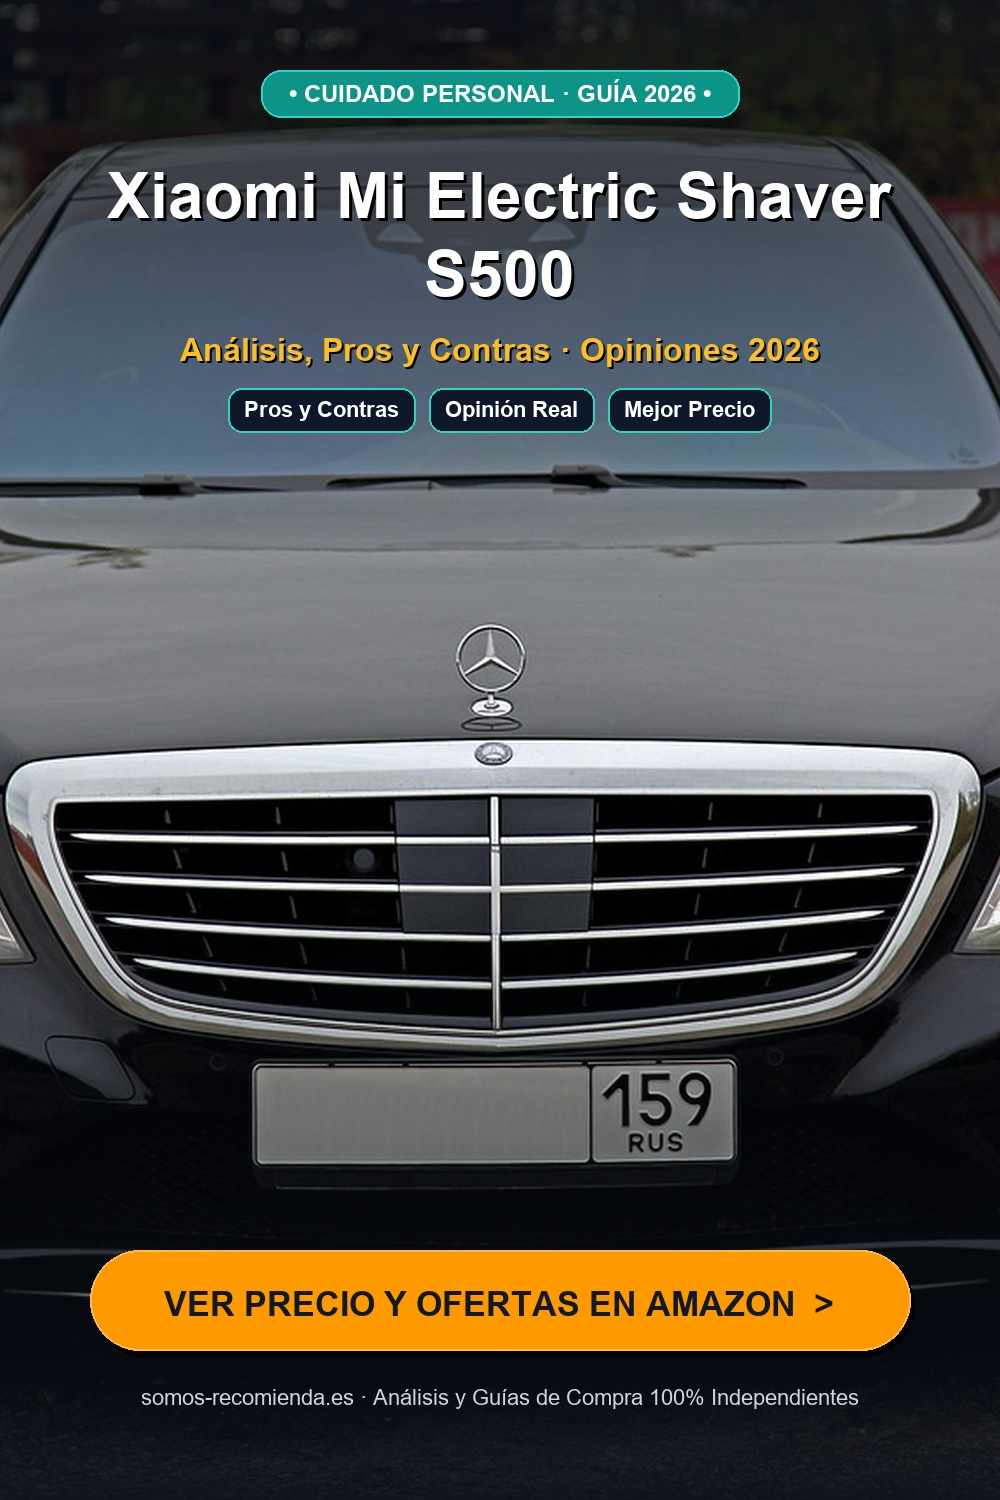
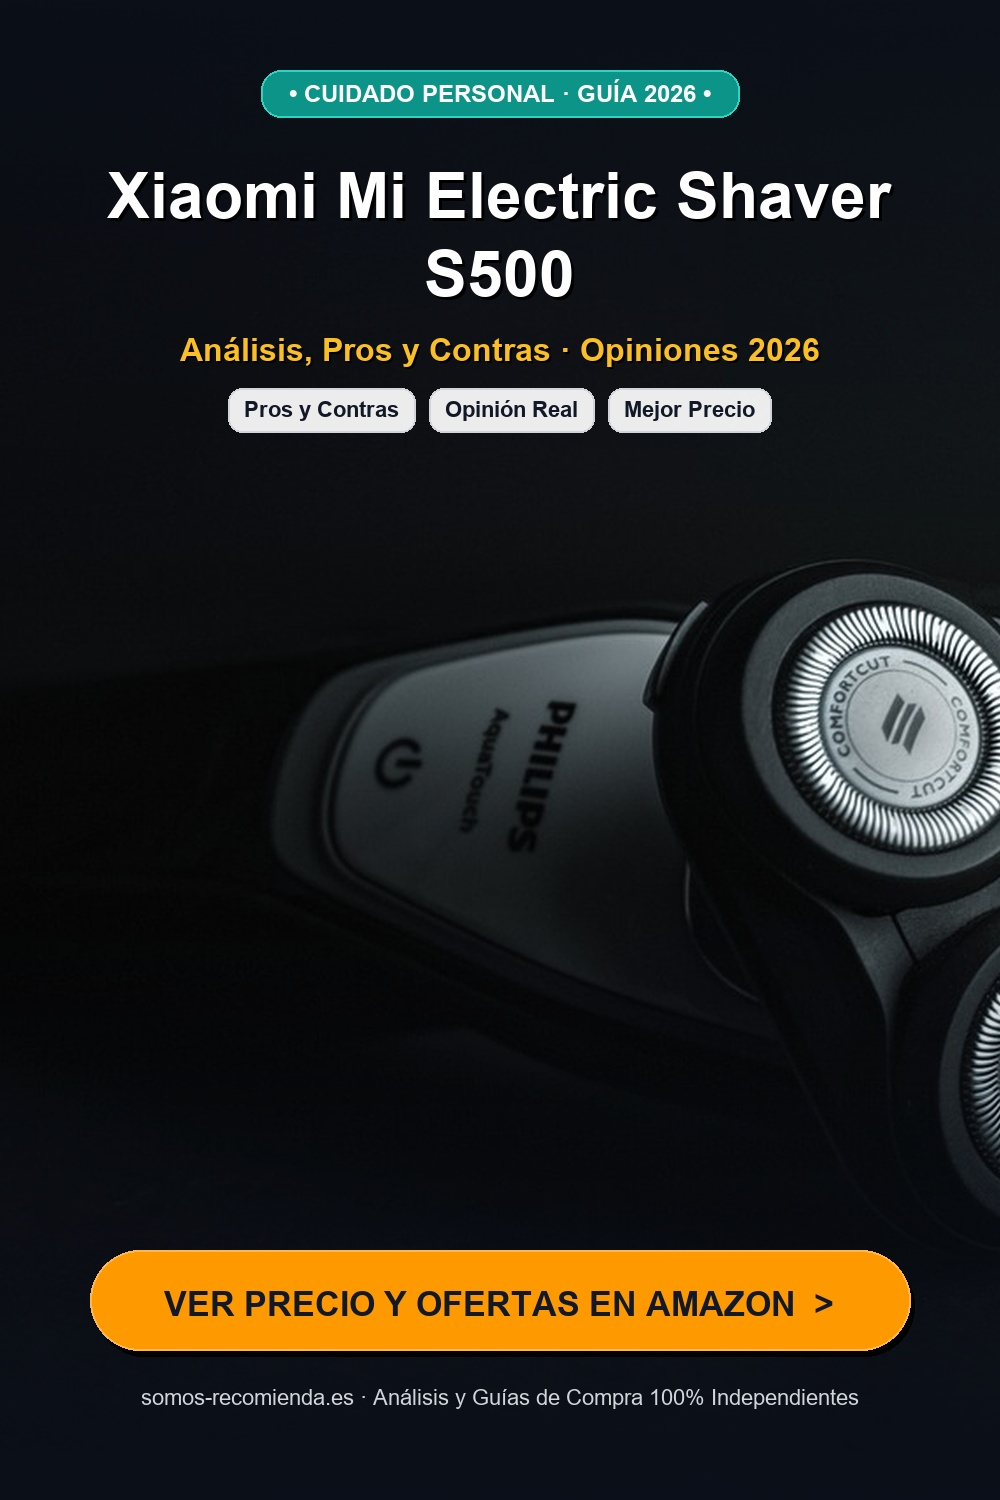
fix(pinterest): sincronizar heroImage exacta de articulos y alto contraste en etiquetas

diff --git a/generador_pinterest.py b/generador_pinterest.py
@@ -31,13 +31,19 @@ DEFAULT_CSV = "keywords_productos.csv"
 
 MAPA_FALLBACK_IMAGENES = {
     "hogar y cocina": "public/images/fallbacks/hogar-y-cocina-default.jpg",
+    "hogar-y-cocina": "public/images/fallbacks/hogar-y-cocina-default.jpg",
     "informatica": "public/images/fallbacks/informatica-default.jpg",
     "productos para mascotas": "public/images/fallbacks/productos-para-mascotas-default.jpg",
+    "productos-para-mascotas": "public/images/fallbacks/productos-para-mascotas-default.jpg",
     "deportes y aire libre": "public/images/fallbacks/deportes-default.jpg",
+    "deportes-y-aire-libre": "public/images/fallbacks/deportes-default.jpg",
     "bricolaje y herramientas": "public/images/fallbacks/bricolaje-y-herramientas-default.jpg",
+    "bricolaje-y-herramientas": "public/images/fallbacks/bricolaje-y-herramientas-default.jpg",
     "electronica": "public/images/fallbacks/electronica-default.jpg",
     "salud y cuidado personal": "public/images/fallbacks/salud-default.jpg",
+    "salud-y-cuidado-personal": "public/images/fallbacks/salud-default.jpg",
     "cuidado personal": "public/images/fallbacks/salud-default.jpg",
+    "cuidado-personal": "public/images/fallbacks/salud-default.jpg",
     "general": "public/images/fallbacks/consejos-default.jpg",
 }
 
@@ -146,36 +152,68 @@ def crear_gradiente_contraste(width: int, height: int) -> Image.Image:
 
 
 def resolver_imagen_origen(keyword: str, categoria: str, ruta_especifica: Optional[str] = None) -> Optional[str]:
-    """Localiza la mejor imagen existente en el proyecto para el producto."""
+    """
+    Localiza con precisión absoluta la imagen exacta del producto usada en su artículo.
+    1. Si se pasa ruta específica válida, la utiliza.
+    2. Lee el artículo correspondiente en src/content/blog/ y extrae la ruta del campo 'heroImage'.
+    3. Si no localiza el artículo, comprueba coincidencias directas en public/img por slug.
+    4. Si falla, usa la imagen fallback oficial de la categoría.
+    """
     if ruta_especifica and os.path.exists(ruta_especifica):
         return ruta_especifica
 
-    slug_2026 = slugify(f"mejor-{keyword}-2026")
-    slug_simple = slugify(keyword)
+    slug_producto = slugify(keyword)
+    anio_actual = 2026
 
-    candidatas = [
-        os.path.join("public", "img", f"{slug_2026}.jpg"),
-        os.path.join("public", "img", f"{slug_simple}.jpg"),
+    # 1. Buscar en los artículos de src/content/blog/ para sincronizar 100% con heroImage
+    blog_dir = os.path.join("src", "content", "blog")
+    if os.path.exists(blog_dir):
+        archivos_blog = [
+            os.path.join(blog_dir, f)
+            for f in os.listdir(blog_dir)
+            if f.endswith((".md", ".mdx")) and not f.startswith(".")
+        ]
+        # Ordenar por fecha de modificación (los más recientes primero)
+        archivos_blog.sort(key=os.path.getmtime, reverse=True)
+
+        for ruta_post in archivos_blog:
+            try:
+                with open(ruta_post, "r", encoding="utf-8") as fp:
+                    contenido = fp.read(2000)
+                    
+                    coincide = False
+                    if f'keyword: "{keyword}"' in contenido or f"keyword: '{keyword}'" in contenido:
+                        coincide = True
+                    elif slug_producto in ruta_post.lower():
+                        coincide = True
+                    
+                    if coincide:
+                        m = re.search(r'heroImage:\s*["\']([^"\']+)["\']', contenido)
+                        if m:
+                            hero_val = m.group(1).strip()
+                            ruta_local = os.path.join("public", hero_val.lstrip("/\\"))
+                            if os.path.exists(ruta_local):
+                                print(f"    [Pinterest Imagen] Coincidencia exacta con artículo '{os.path.basename(ruta_post)}': {ruta_local}")
+                                return ruta_local
+            except Exception:
+                pass
+
+    # 2. Candidatas directas por nombre de archivo en public/img
+    candidatas_directas = [
+        os.path.join("public", "img", f"mejor-{slug_producto}-{anio_actual}.jpg"),
+        os.path.join("public", "img", f"{slug_producto}.jpg"),
+        os.path.join("public", "img", f"mejor-{slug_producto}.jpg"),
     ]
-
-    for c in candidatas:
+    for c in candidatas_directas:
         if os.path.exists(c):
+            print(f"    [Pinterest Imagen] Archivo directo encontrado: {c}")
             return c
 
-    # Búsqueda parcial en public/img
-    public_img = os.path.join("public", "img")
-    if os.path.exists(public_img):
-        for fname in os.listdir(public_img):
-            if fname.lower().endswith((".jpg", ".png", ".jpeg", ".webp")):
-                base_name = os.path.splitext(fname)[0].lower()
-                partes = [p for p in slug_simple.split("-") if len(p) > 3]
-                if any(p in base_name for p in partes[:2]):
-                    return os.path.join(public_img, fname)
-
-    # Fallbacks de categoría
-    cat_norm = normalizar_para_comparar(categoria)
-    fallback = MAPA_FALLBACK_IMAGENES.get(cat_norm, MAPA_FALLBACK_IMAGENES["general"])
+    # 3. Fallbacks de categoría (sin búsqueda parcial difusa que traiga imágenes erróneas)
+    cat_norm = normalizar_para_comparar(categoria).replace("-", " ")
+    fallback = MAPA_FALLBACK_IMAGENES.get(cat_norm, MAPA_FALLBACK_IMAGENES.get(categoria.lower(), MAPA_FALLBACK_IMAGENES["general"]))
     if os.path.exists(fallback):
+        print(f"    [Pinterest Imagen] Usando fallback de categoría: {fallback}")
         return fallback
 
     return None
@@ -202,11 +240,26 @@ def recortar_y_centrar(img: Image.Image, target_w: int = PIN_WIDTH, target_h: in
         return resized.crop((0, top, target_w, top + target_h))
 
 
+def calcular_color_texto_contraste(color_fondo_rgba: Tuple[int, ...]) -> Tuple[Tuple[int, int, int], Tuple[int, int, int]]:
+    """
+    Garantiza alto contraste entre el texto y el fondo de las etiquetas.
+    - Si el fondo es blanco o claro (luminancia > 140): texto gris oscuro/negro casi puro (17, 24, 39) y borde gris claro (209, 213, 219).
+    - Si el fondo es oscuro (luminancia <= 140): texto blanco puro (255, 255, 255) y borde turquesa (45, 212, 191).
+    """
+    r, g, b = color_fondo_rgba[:3]
+    luminancia = 0.299 * r + 0.587 * g + 0.114 * b
+    if luminancia > 140:
+        return (17, 24, 39), (209, 213, 219)
+    else:
+        return (255, 255, 255), (45, 212, 191)
+
+
 def crear_pin(
     keyword: str,
     categoria: str,
     ruta_imagen: Optional[str] = None,
     ruta_salida: Optional[str] = None,
+    estilo_pildoras: str = "blanco",
 ) -> str:
     """
     Crea un Pin de Pinterest de alta conversión (1000x1500) para un producto.
@@ -284,7 +337,7 @@ def crear_pin(
     draw.text((x_s + 2, y_cursor + 18), sub_text, font=font_sub, fill=(0, 0, 0, 200))
     draw.text((x_s, y_cursor + 16), sub_text, font=font_sub, fill=(251, 191, 36, 255))  # Dorado / Ámbar
 
-    # 6. Píldoras de Valor Centrales
+    # 6. Píldoras de Valor Centrales (Alto Contraste Garantizado)
     font_pills = obtener_fuente(22, bold=True)
     pills = ["Pros y Contras", "Opinión Real", "Mejor Precio"]
     pill_y = y_cursor + 72
@@ -301,17 +354,39 @@ def crear_pin(
     total_w_with_gaps = total_pills_w + (len(pills) - 1) * gap
     start_x = (PIN_WIDTH - total_w_with_gaps) // 2
 
+    # Configuración de fondo según estilo ('blanco' o 'oscuro')
+    if estilo_pildoras.lower() in ("blanco", "white", "claro", "light"):
+        fill_pills = (255, 255, 255, 235)  # Fondo blanco translúcido
+    else:
+        fill_pills = (15, 23, 42, 225)  # Fondo oscuro
+
+    # Color de texto y borde garantizando contraste estricto
+    color_texto_pills, outline_pills = calcular_color_texto_contraste(fill_pills)
+
+    # Renderizado sobre capa overlay para mezcla alfa suave y sin pérdida de calidad
+    overlay_pills = Image.new("RGBA", (PIN_WIDTH, PIN_HEIGHT), (0, 0, 0, 0))
+    draw_overlay = ImageDraw.Draw(overlay_pills)
+
     current_px = start_x
     for idx, p in enumerate(pills):
         pw = pill_widths[idx]
-        draw.rounded_rectangle(
+        draw_overlay.rounded_rectangle(
             [current_px, pill_y, current_px + pw, pill_y + 44],
             radius=14,
-            fill=(15, 23, 42, 210),
-            outline=(45, 212, 191, 180),
+            fill=fill_pills,
+            outline=outline_pills,
             width=2,
         )
-        draw.text((current_px + 16, pill_y + 9), p, font=font_pills, fill=(255, 255, 255))
+        current_px += pw + gap
+
+    lienzo = Image.alpha_composite(lienzo, overlay_pills)
+    draw = ImageDraw.Draw(lienzo)
+
+    # Dibujar texto con máximo contraste garantizado
+    current_px = start_x
+    for idx, p in enumerate(pills):
+        pw = pill_widths[idx]
+        draw.text((current_px + 16, pill_y + 9), p, font=font_pills, fill=color_texto_pills)
         current_px += pw + gap
 
     # 7. Call To Action (Botón inferior de alta conversión)
@@ -348,7 +423,7 @@ def crear_pin(
     return ruta_salida
 
 
-def procesar_ultimo_articulo(csv_path: str = DEFAULT_CSV) -> Optional[str]:
+def procesar_ultimo_articulo(csv_path: str = DEFAULT_CSV, estilo_pildoras: str = "blanco") -> Optional[str]:
     """Lee el CSV y genera el Pin para el último producto añadido."""
     if not os.path.exists(csv_path):
         print(f"[Error Pinterest] CSV '{csv_path}' no encontrado.")
@@ -370,7 +445,7 @@ def procesar_ultimo_articulo(csv_path: str = DEFAULT_CSV) -> Optional[str]:
     categoria = ultima_fila.get("categoria", "").strip() or "General"
 
     print(f"\n[Pinterest Motor] Creando Pin para: '{keyword}' ({categoria})...")
-    return crear_pin(keyword=keyword, categoria=categoria)
+    return crear_pin(keyword=keyword, categoria=categoria, estilo_pildoras=estilo_pildoras)
 
 
 def main():
@@ -379,6 +454,7 @@ def main():
     parser.add_argument("--categoria", type=str, default=None, help="Categoría del producto.")
     parser.add_argument("--imagen", type=str, default=None, help="Ruta a la imagen de origen.")
     parser.add_argument("--csv", type=str, default=DEFAULT_CSV, help="Ruta al CSV con el último producto.")
+    parser.add_argument("--estilo-pildoras", type=str, default="blanco", choices=["blanco", "oscuro", "white", "dark"], help="Estilo visual de las píldoras de valor ('blanco' con texto negro o 'oscuro' con texto blanco).")
     parser.add_argument("--all", action="store_true", help="Generar pines para todos los artículos en src/content/blog/")
 
     args = parser.parse_args()
@@ -397,16 +473,16 @@ def main():
                         elif line.startswith("category:"):
                             cat = line.split(":", 1)[1].strip().strip('"\'')
                 if kw:
-                    crear_pin(keyword=kw, categoria=cat)
+                    crear_pin(keyword=kw, categoria=cat, estilo_pildoras=args.estilo_pildoras)
             except Exception as e:
                 print(f"Error procesando {f}: {e}")
         return
 
     if args.keyword:
         cat = args.categoria or "General"
-        crear_pin(keyword=args.keyword, categoria=cat, ruta_imagen=args.imagen)
+        crear_pin(keyword=args.keyword, categoria=cat, ruta_imagen=args.imagen, estilo_pildoras=args.estilo_pildoras)
     else:
-        procesar_ultimo_articulo(csv_path=args.csv)
+        procesar_ultimo_articulo(csv_path=args.csv, estilo_pildoras=args.estilo_pildoras)
 
 
 if __name__ == "__main__":

diff --git a/escritor.py b/escritor.py
@@ -122,20 +122,27 @@ def guardar_memoria_imagenes(imagenes: Set[str]) -> None:
 
 MAPA_FALLBACK_IMAGENES = {
     "hogar y cocina": "/images/fallbacks/hogar-y-cocina-default.jpg",
+    "hogar-y-cocina": "/images/fallbacks/hogar-y-cocina-default.jpg",
     "informatica": "/images/fallbacks/informatica-default.jpg",
     "productos para mascotas": "/images/fallbacks/productos-para-mascotas-default.jpg",
+    "productos-para-mascotas": "/images/fallbacks/productos-para-mascotas-default.jpg",
     "deportes y aire libre": "/images/fallbacks/deportes-default.jpg",
+    "deportes-y-aire-libre": "/images/fallbacks/deportes-default.jpg",
     "bricolaje y herramientas": "/images/fallbacks/bricolaje-y-herramientas-default.jpg",
+    "bricolaje-y-herramientas": "/images/fallbacks/bricolaje-y-herramientas-default.jpg",
     "electronica": "/images/fallbacks/electronica-default.jpg",
     "salud y cuidado personal": "/images/fallbacks/salud-default.jpg",
+    "salud-y-cuidado-personal": "/images/fallbacks/salud-default.jpg",
+    "cuidado personal": "/images/fallbacks/salud-default.jpg",
+    "cuidado-personal": "/images/fallbacks/salud-default.jpg",
     "general": "/images/fallbacks/consejos-default.jpg",
 }
 
 
 def obtener_imagen_fallback(categoria: str) -> str:
     """Devuelve la ruta a la imagen local genérica predefinida por categoría."""
-    cat_norm = normalizar_para_comparar(categoria)
-    return MAPA_FALLBACK_IMAGENES.get(cat_norm, "/images/fallbacks/consejos-default.jpg")
+    cat_norm = normalizar_para_comparar(categoria).replace("-", " ")
+    return MAPA_FALLBACK_IMAGENES.get(cat_norm, MAPA_FALLBACK_IMAGENES.get(categoria.lower(), "/images/fallbacks/consejos-default.jpg"))
 
 
 def descargar_imagen(url: str, ruta_destino: str) -> None:
@@ -184,11 +191,16 @@ def resolver_hero_image(
 ) -> str:
     """
     Resuelve y descarga la imagen destacada para el producto:
-    1. Búsqueda en Pixabay con 'termino_imagen_en' o 'keyword'.
+    1. Búsqueda en Pixabay con 'termino_imagen_en' limpio (sin números de modelo).
     2. Fallback local predefinido por categoría si Pixabay falla o no devuelve resultados.
     """
     os.makedirs(PUBLIC_IMG_DIR, exist_ok=True)
-    queries = [q for q in [termino_imagen_en, keyword] if q and q.strip()]
+    
+    # Limpiar alfanuméricos de modelo (ej: 's500', '18v', 'hx9911', 'dhp482z') para evitar falsos positivos como coches o camiones
+    termino_limpio = re.sub(r'\b[A-Za-z]*\d+[A-Za-z0-9]*\b', '', termino_imagen_en).strip()
+    termino_limpio = re.sub(r'\s+', ' ', termino_limpio)
+    
+    queries = [q for q in [termino_limpio, termino_imagen_en] if q and len(q) >= 3]
 
     for q in queries:
         hits = buscar_imagen_pixabay(q)
@@ -267,7 +279,7 @@ Responde EXACTAMENTE con la siguiente estructura y etiquetas de campos (sin ning
 
 TITULO: [Titular H1 transaccional de alta conversión, ej: 'Mejor {keyword.title()} en {anio_actual}: Análisis y Opiniones']
 DESCRIPCION: [Meta descripción SEO persuasiva para CTR en Google de 140 a 155 caracteres]
-TERMINO_IMAGEN: [2 a 3 palabras en inglés para buscar fotografía horizontal en Pixabay, ej: 'cordless drill']
+TERMINO_IMAGEN: [2 a 3 palabras genéricas en inglés que describan el OBJETO o TIPO DE PRODUCTO para buscar fotografía en Pixabay (ej: 'electric shaver', 'cordless drill', 'running smartwatch', 'coffee maker'). NUNCA incluyas números de modelo, marcas ni códigos como S500, DHP, 18V ya que provocarían imágenes erróneas como coches o camiones.]
 INTRO:
 [Párrafo de introducción y enganche de aproximadamente 50 palabras abordando directamente el dolor, problema o necesidad inmediata del comprador]
 PROS_CONS_MDX:
